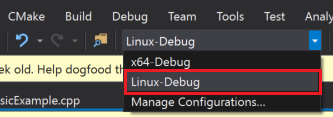
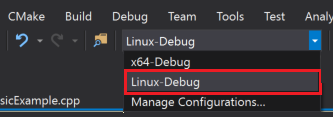
fixed images and heading in open folder topic

Changed region(s): [[0.0, 0.4615, 0.3904, 0.7179], [0.0, 0.9487, 1.0, 1.0], [0.961, 0.4615, 1.0, 0.7179]]

diff --git a/docs/ide/non-msbuild-projects.md b/docs/ide/non-msbuild-projects.md
@@ -1,23 +1,17 @@
 ---
-title: "Open Folder projects in Visual C++"
-ms.date: "06/01/2018"
+title: "Open Folder support for C++ build systems in Visual Studio"
+ms.date: "01/21/2019"
 helpviewer_keywords: ["Open Folder Projects in Visual C++"]
 ms.assetid: abd1985e-3717-4338-9e80-869db5435175
 ---
-# Open Folder projects in Visual C++
+# Open Folder projects for C++
 
-In Visual Studio 2017 and later, the "Open Folder" feature enables you to open a folder of source files and immediately start coding with support for IntelliSense, browsing, refactoring, debugging, and so on. No .sln or .vcxproj files are loaded; if needed, you can specify custom tasks as well as build and launch parameters through simple .json files.
+In Visual Studio 2017 and later, the "Open Folder" feature enables you to open a folder of source files and immediately start coding with support for IntelliSense, browsing, refactoring, debugging, and so on. No .sln or .vcxproj files are loaded; if needed, you can specify custom tasks as well as build and launch parameters through simple .json files. For general information about Open Folder, see [Develop code in Visual Studio without projects or solutions](/visualstudio/ide/develop-code-in-visual-studio-without-projects-or-solutions).
 
-For general information about Open Folder, see [Develop code in Visual Studio without projects or solutions](/visualstudio/ide/develop-code-in-visual-studio-without-projects-or-solutions).
+CMake is integrated in the Visual Studio IDE as CMake Tools for Visual C++, a component of the C++ desktop workload. For more information, see [CMake projects in Visual Studio](cmake-tools-for-visual-cpp.md). For any other build system, you can use the Open Folder feature. Open Folder effectively decouples the code editor, debugger and analyzers from the build system and the compiler toolset. You can use the C++ code editor with its rich IntelliSense features, the code analyzers, and the Visual Studio debugger with virtually any build system, including CMake, Ninja, QMake (for Qt projects), gyp, SCons, Gradle, Buck, make and more. It even works with a single file or a loose collection of files with no build system.
 
-The Open Folder feature effectively decouples the code editor, debugger and analyzers from the build system and the compiler toolset. You can use the C++ code editor with its rich IntelliSense features, the code analyzers, and the Visual Studio debugger with virtually any build system, including CMake, Ninja, QMake (for Qt projects), gyp, SCons, Gradle, Buck, make and more. It even works with a single file or a loose collection of files with no build system.
-
-To use Open Folder, from the main menu select *File | Open | Folder* or press *Ctrl + Shift + Alt + O*.
+To use Open Folder, from the main menu select **File | Open | Folder** or press **Ctrl + Shift + Alt + O**.
 Solution Explorer immediately displays all the files in the folder. You can click on any file to begin editing it. In the background, Visual Studio starts indexing the files to enable IntelliSense, navigation, and refactoring features. As you edit, create, move, or delete files, Visual Studio tracks the changes automatically and continuously updates its IntelliSense index. 
-
-## CMake projects
-
-CMake is integrated in the Visual Studio IDE as CMake Tools for Visual C++, a component of the C++ desktop workload. For more information, see [CMake Tools for Visual C++](cmake-tools-for-visual-cpp.md).
 
 ## QMake projects that target the Qt framework
 

diff --git a/docs/ide/get-started-linux-cmake.md b/docs/ide/get-started-linux-cmake.md
@@ -175,16 +175,8 @@ So now you have seen the same code base, cloned directly from GitHub, build, run
 
 ## Next steps
 
-Learn more about the CMakeSettings and launch.vs.json file schemas:
+Learn more about configuring  and debugging CMake projects in Visual Studio:
 > [!div class="nextstepaction"]
 > [Configure CMake debugging sessions](configure-cmake-debugging-sessions.md)
 > [CMake predefined configuration reference](cmake-predefined-configuration-reference.md)
 
-<!--- Required:
-Tutorials should always have a Next steps H2 that points to the next
-logical tutorial in a series, or, if there are no other tutorials, to
-some other cool thing the customer can do. A single link in the blue box
-format should direct the customer to the next article - and you can
-shorten the title in the boxes if the original one doesn't fit.
-Do not use a "More info section" or a "Resources section" or a "See also
-section". --->

diff --git a/docs/ide/TOC.md b/docs/ide/TOC.md
@@ -13,6 +13,7 @@
 ## [Tasks.vs.json schema reference (C++)](tasks-vs-json-schema-reference-cpp.md)
 # [CMake projects](cmake-tools-for-visual-cpp.md)
 ## [Tutorial: Create C++ cross-platform projects in Visual Studio](get-started-linux-cmake.md)
+## [Configure a Linux CMake project](../linux/cmake-linux-project.md)
 ## [Customize CMake settings](customize-cmake-settings.md)
 ## [Configure CMake debugging sessions](configure-cmake-debugging-sessions.md)
 ## [CMake predefined configuration schema reference](cmake-predefined-configuration-reference.md)
